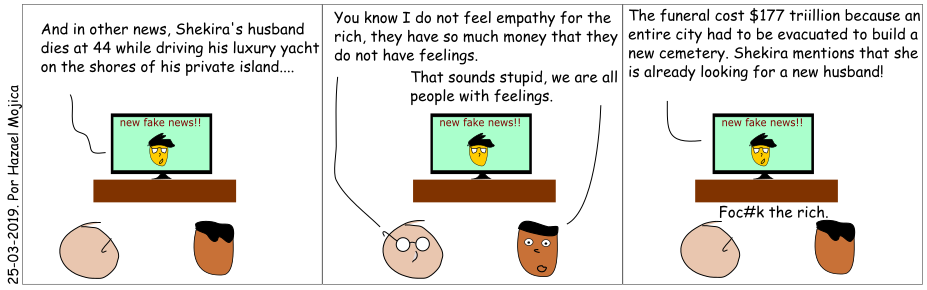
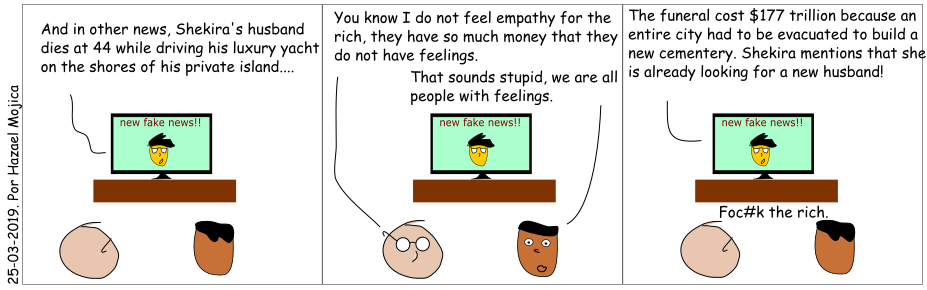
8 typo

Changed region(s): [[0.7551, 0.1552, 1.0, 0.2172], [0.8759, 0.031, 0.9968, 0.0931]]

diff --git a/aass/en/8.md b/aass/en/8.md
@@ -12,7 +12,7 @@ next:
     - TV: And in other news, Shekira's husband dies at 44 while driving his luxury yacht on the shores of his private island....
     - Hazel: You know I do not feel empathy for the rich, they have so much money that they do not have feelings.
     - iGus: That sounds stupid, we are all people with feelings.
-    - TV: The funeral cost $177 triillion because an entire city had to be evacuated to build a new cemetery. Shekira mentions that she is already looking for a new husband!
+    - TV: The funeral cost $177 trillion because an entire city had to be evacuated to build a new cementery. Shekira mentions that she is already looking for a new husband!
     - Hazel, iGus: Foc#k the rich.
 </p>
 
